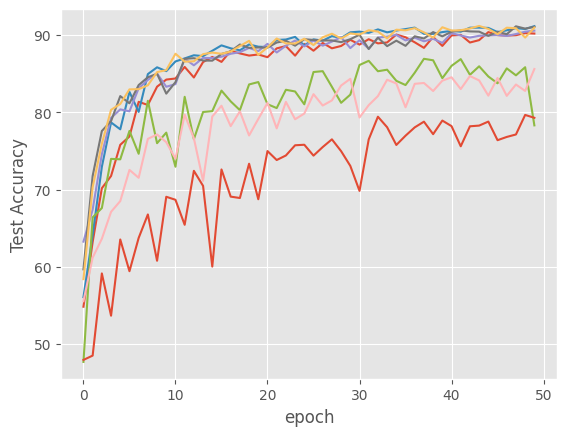
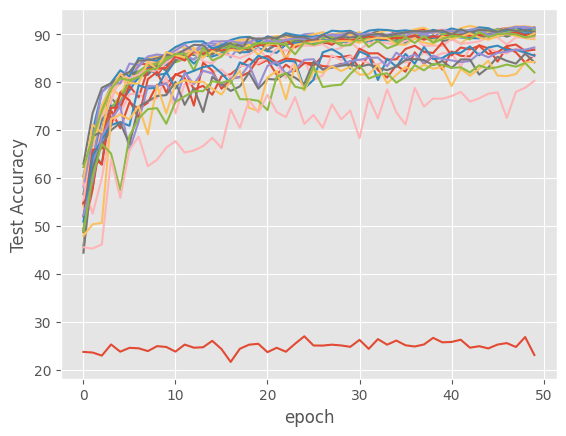
add imagenet run

diff --git a/cnn/trainer_imagenet.py b/cnn/trainer_imagenet.py
@@ -43,9 +43,8 @@ import pandas as pd
 from profile_macro_nn import connvert_df_to_list_arch
 import async_timeout
 
-os.environ["CUDA_VISIBLE_DEVICES"] = "5,6,7"
 OPORTUNITY_GAP_ARCHITECTURE = (
-    "generated_cifar_macro_mcts_mcts_architecture_cpu_layers.csv"
+    "mcts_generated/t8_generated_cifar_macro_mcts_v7_sim_100_mcts_architecture_cpu_layers.csv"
 )
 # Change these values if you want the training to run quicker or slower.
 IMAGENET_CLASSES = 1000
@@ -77,7 +76,7 @@ async def per_res_train(device, device_id, hyperparameter_space, sched, path):
         config=hyperparameter_space,
         resources_per_trial={"gpu": ngpus_per_node},
         verbose=1,
-        name="train_heterogenous_network_imagenet",  # This is used to specify the logging directory.
+        name="train_mcts_imagenet",  # This is used to specify the logging directory.
     )
 
     print("Finishing latency strata: {}".format(device_id))
@@ -379,7 +378,7 @@ if __name__ == "__main__":
     parser.add_argument("--batch_size", type=int, default=128, help="")
     parser.add_argument("--workers", type=int, default=4, help="")
     parser.add_argument(
-        "--gpu_devices", type=int, nargs="+", default=[5, 6, 7], help=""
+        "--gpu_devices", type=int, nargs="+", default=[0, 1, 2, 3, 4, 5, 6, 7], help=""
     )
 
     parser.add_argument(

diff --git a/cnn/trainer_cifar.py b/cnn/trainer_cifar.py
@@ -55,7 +55,7 @@ async def per_res_train(device, device_id, hyperparameter_space, sched, path):
         config=hyperparameter_space,
         resources_per_trial={"gpu": 1},
         verbose=1,
-        name="train_mcts_hetero_cifar",  # This is used to specify the logging directory.
+        name="train_mcts_cifar_13_04_2020",  # This is used to specify the logging directory.
     )
 
     print("Finishing latency strata: {}".format(device_id))
@@ -91,7 +91,7 @@ async def async_train(device, model_architectures, n_family, sched, path):
 
     for device_id in devices:
         hyperparameter_space = {
-            "model_name": "train_mnist",
+            "model_name": "train_cifar",
             "architecture": tune.grid_search(arr_of_models[device_id]),
             "lr": tune.grid_search([args.learning_rate]),
             "momentum": tune.grid_search([args.momentum]),
